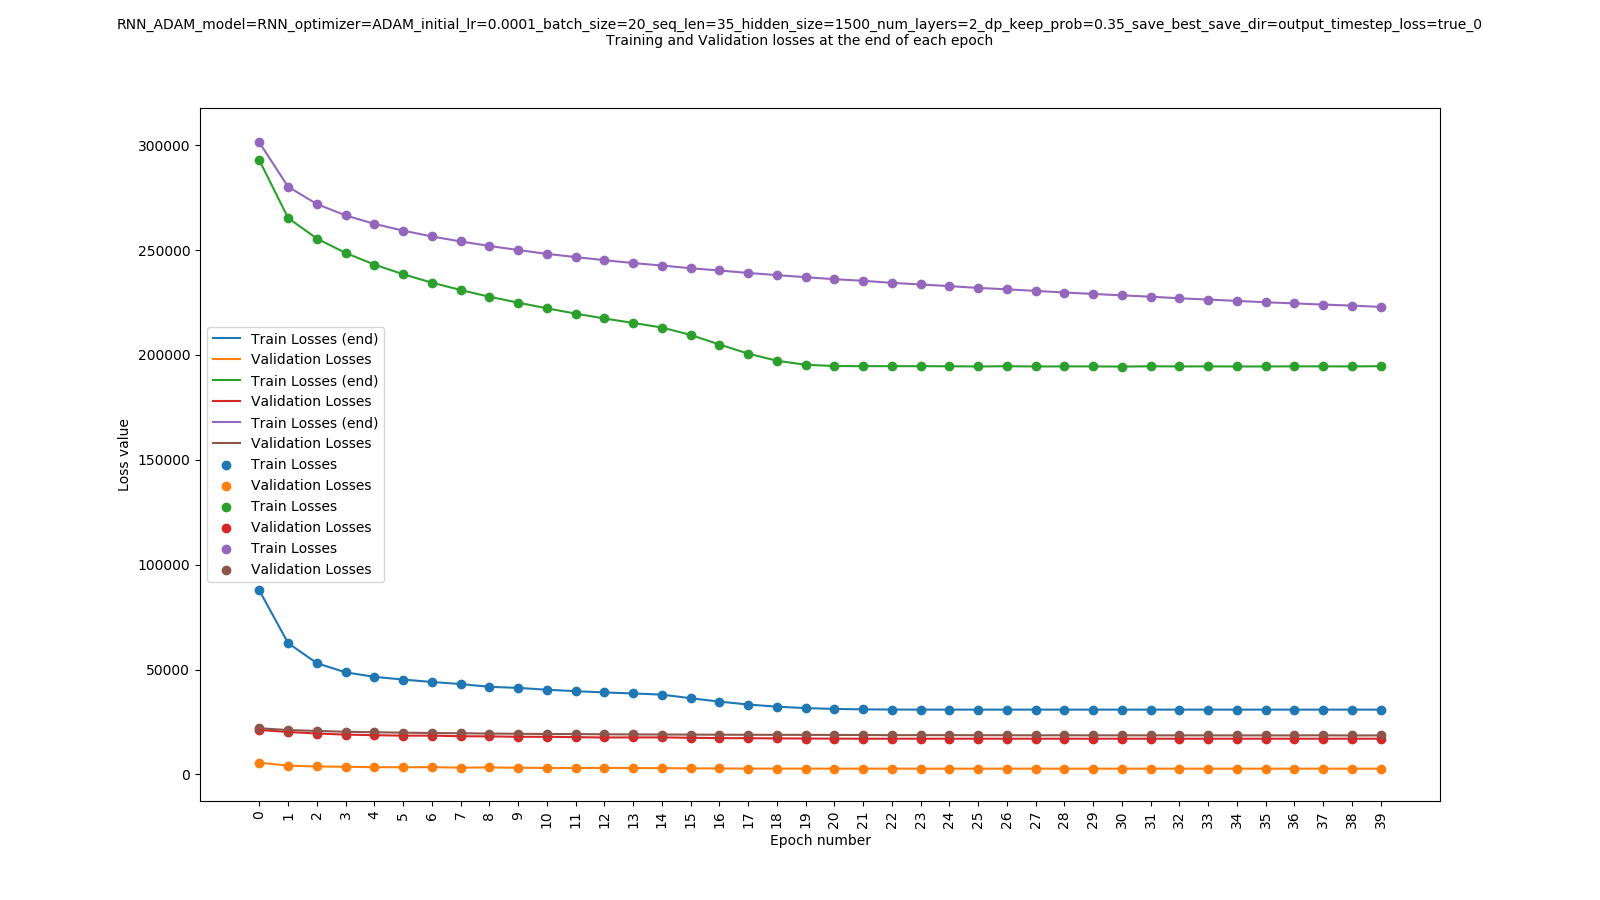
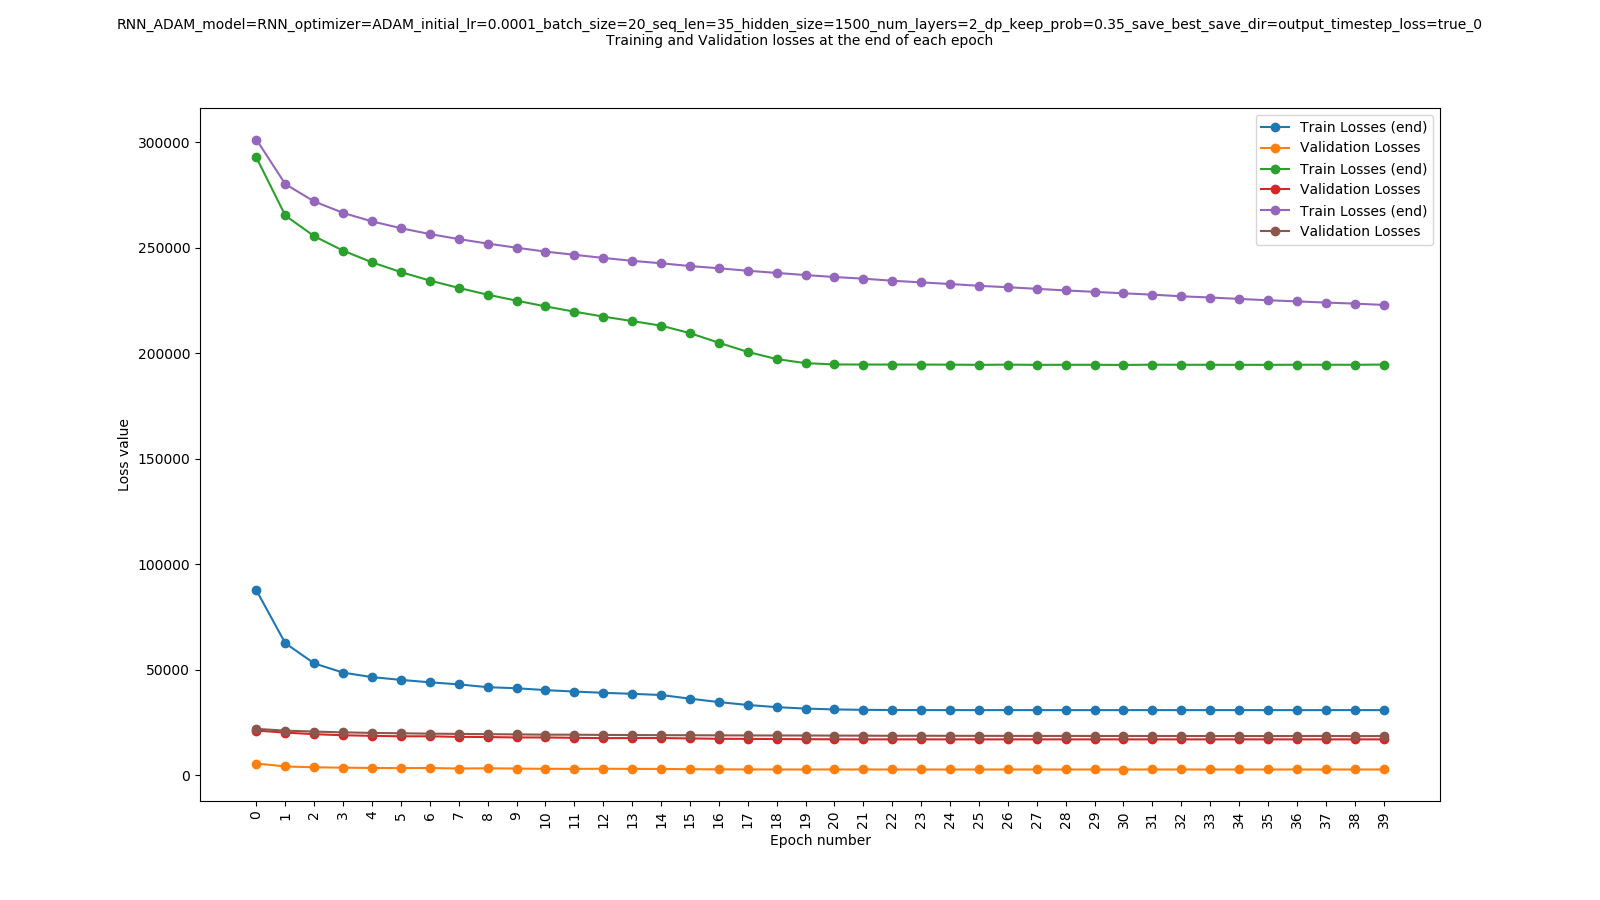
Visualization

diff --git a/visualization.py b/visualization.py
@@ -19,10 +19,8 @@ def plots(train_losses, val_losses, train_ppls, val_ppls, epoch_times, experimen
     temp2 = len(val_losses)/40
     train_losses_index = [(i % temp) == (temp-1 ) for i in range(len(train_losses))]
     val_losses_index = [(i % temp2 )== (temp2-1) for i in range(len(val_losses))]
-    plt.plot(epochs, train_losses[train_losses_index], label="Train Losses (end)")
-    plt.scatter(epochs, train_losses[train_losses_index], label="Train Losses")
-    plt.plot(epochs, val_losses[val_losses_index], label="Validation Losses")
-    plt.scatter(epochs, val_losses[val_losses_index], label="Validation Losses")
+    plt.plot(epochs, train_losses[train_losses_index], label="Train Losses (end)", marker='o' )
+    plt.plot(epochs, val_losses[val_losses_index], label="Validation Losses", marker='o' )
 
     # train_losses_index = [(i % 1327 == 0) for i in range(len(train_losses))]
     # val_losses_index = [(i % 105 == 0) for i in range(len(val_losses))]
@@ -39,10 +37,8 @@ def plots(train_losses, val_losses, train_ppls, val_ppls, epoch_times, experimen
     plt.savefig(directory+'/1.png')
 
     plt.figure(2, figsize=(16, 9))
-    plt.plot(epoch_times, train_ppls, label="Train PPL" )
-    plt.scatter(epoch_times, train_ppls, label="Train PPL" )
-    plt.plot(epoch_times, val_ppls, label="Validation PPL" )
-    plt.scatter(epoch_times, val_ppls, label="Validation PPL" )
+    plt.plot(epoch_times, train_ppls, label="Train PPL", marker='o' )
+    plt.plot(epoch_times, val_ppls, label="Validation PPL" , marker='o' )
     plt.xlabel("Wall-clock-time")
     plt.xticks(epoch_times,rotation='vertical')
     plt.ylabel("PPL value")
@@ -52,10 +48,8 @@ def plots(train_losses, val_losses, train_ppls, val_ppls, epoch_times, experimen
 
 
     plt.figure(3, figsize=(16, 9))
-    plt.plot(epochs, train_ppls, label="Train PPL" )
-    plt.scatter(epochs, train_ppls, label="Train PPL" )
-    plt.plot(epochs, val_ppls, label="Validation PPL" )
-    plt.scatter(epochs, val_ppls, label="Validation PPL" )
+    plt.plot(epochs, train_ppls, label="Train PPL", marker='o' )
+    plt.plot(epochs, val_ppls, label="Validation PPL", marker='o' )
     plt.xlabel("Wall-clock-time")
     plt.xticks(epochs,rotation='vertical')
     plt.ylabel("PPL value")
